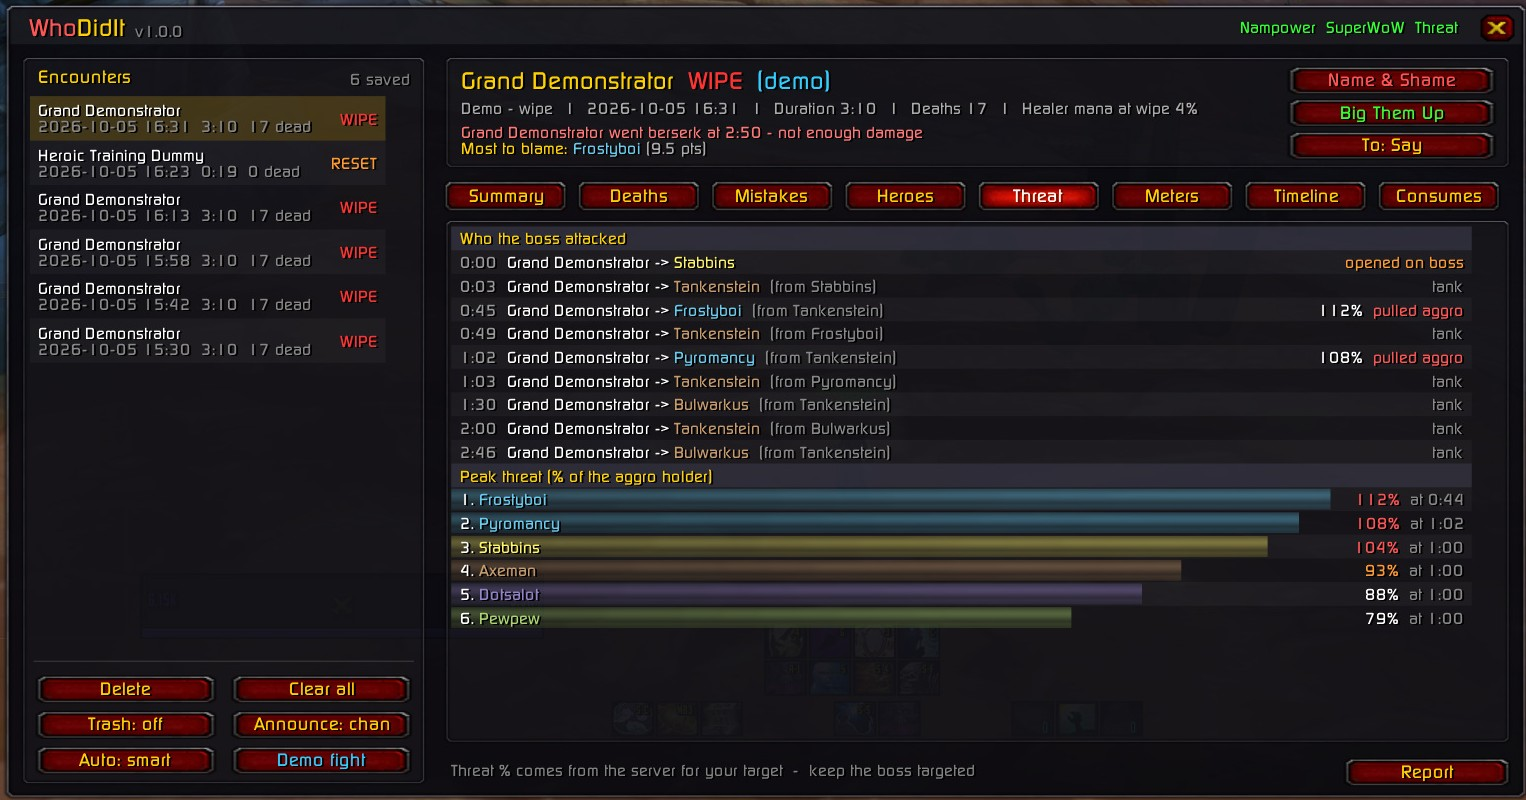
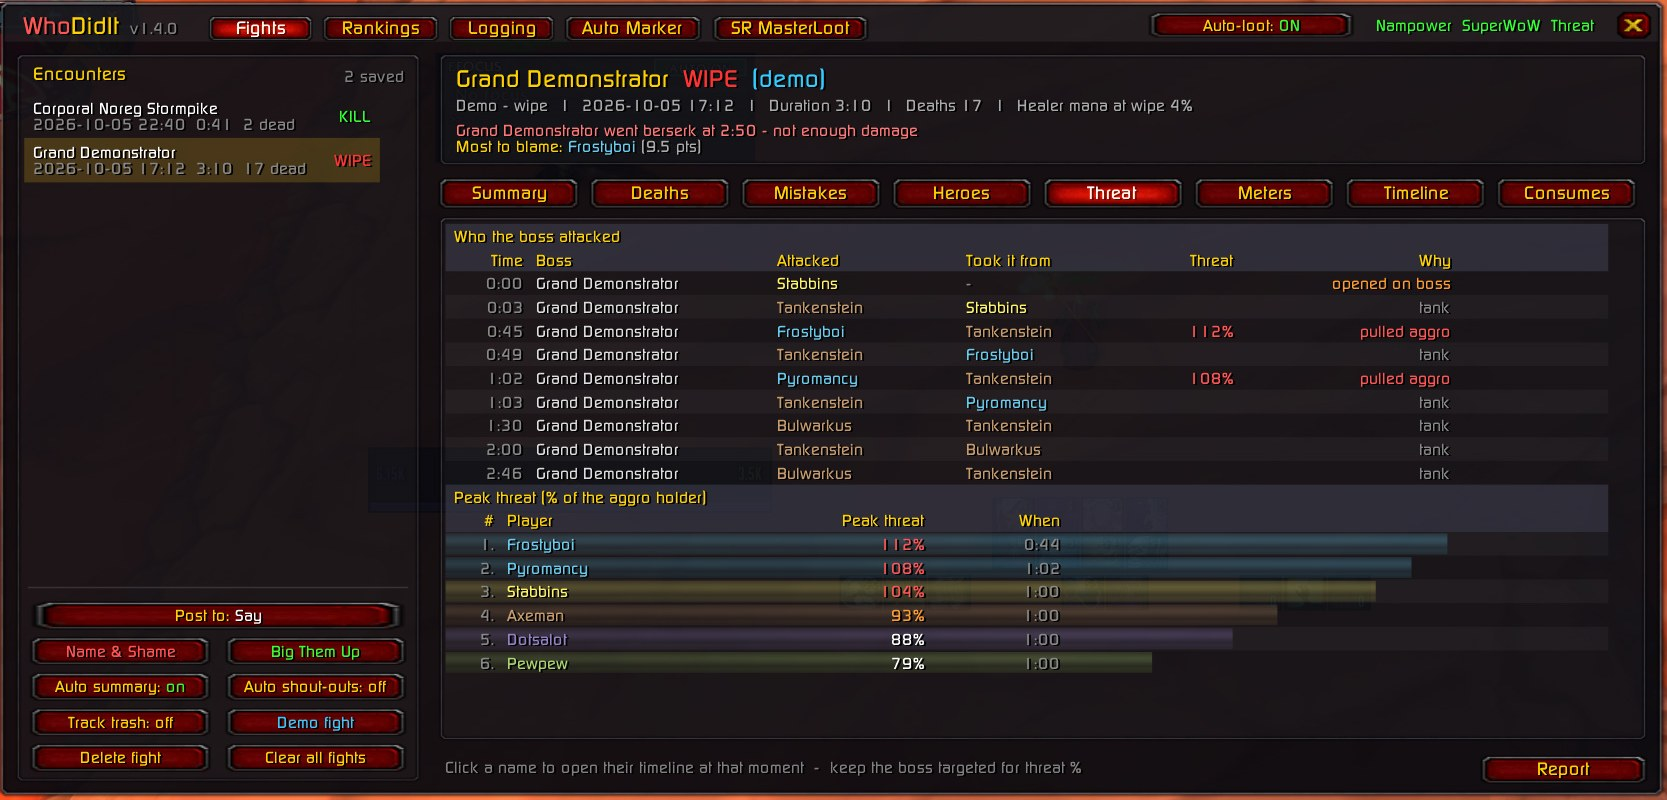
README: new screenshots of every tab and clearer descriptions
- 14 fresh screenshots (v1.4): Summary, Deaths, Mistakes, Heroes,
  Threat, Meters, Timeline, Consumes, Rankings kill times and full
  clears, Logging, Auto Marker, SR MasterLoot and the Auto-loot panel.
  Old ones showing the previous layout removed.
- Gallery grouped by part of the window, each with a plain description
  of what it shows and what clicking does; Highlights rewritten; a
  short guide to the title bar and the bottom-left panel; section names
  match the tab names (Logging, Auto Marker, SR MasterLoot, Auto-loot).
- Auto-loot panel and mark picker get a solid background (text behind
  showed through).

diff --git a/README.md b/README.md
@@ -23,41 +23,61 @@ Records every boss fight, then tells you **why** the raid wiped and **who** did 
 
 ## Highlights
 
-- 🔍 **Why did it go wrong?** A ranked list of wipe causes: tank deaths, healers out of mana, enrage timers, mechanics, aggro pulls, missed interrupts. Click any cause for the full breakdown: who healed the tank in their last 5 seconds, or each healer's mana and potions.
+- 🔍 **Why did it go wrong?** A ranked list of wipe causes: tank deaths, healers out of mana, enrage timers, mechanics, aggro pulls, missed interrupts. Click any cause for the full breakdown.
 - ☠ **Death recaps.** The last 15 seconds before every death (hits, heals, debuffs, items, health %), with the cause worked out for you.
-- 🎯 **Aggro & threat.** Every time the boss switched target, with the server's threat % at that moment. Non-tanks who rip aggro get blamed.
-- 📋 **Blame board.** Points for standing in fire, pulling aggro, bombing the raid, idling and low DPS, with a "Most to blame" verdict.
-- 🦸 **Heroes.** Game-saving plays: clutch heals, shields that ate a killing blow, taunt rescues, Blessing of Protection, battle res, Innervate, dispelled mind control.
-- 🧪 **Consumes.** Every player's flask, elixirs, food, juju and protection potions, plus every potion, rune, tea and healthstone they used. A **slacker check** says who's missing what their role needs, at every pull and every ready check.
-- 🎒 **Auto master looting.** Greys, whites and greens (and raid mats) handed out by themselves to you or anyone you pick, with a backup for when your bags are full.
-- 📣 **Shout-outs.** *Name & Shame* and *Big Them Up* awards, reports and per-player posts, sent to any channel in colour.
-- 📊 **Meters & timeline.** Damage, healing, taken, activity and utility, plus a full timeline of the fight.
-- 💀 **Auto marking.** Marks whole packs in one go, with ~365 raid packs built in, smart marks for tricky fights, and quick save for your own packs.
-- 💰 **Master looting.** RollFor is built in, with an **SR MasterLoot** tab: soft-res import and check, rolls, awards, loot given, and a step-by-step guide.
-- 🏆 **Rankings & Chronicle.** Kill and clear times against every guild on your realm, and the Chronicle combat logger built in.
+- 📋 **Blame board & heroes.** Points for every mistake (standing in fire, pulling aggro, bombing the raid, idling, low DPS) and every game-saving play (clutch heals, shields, taunts, BoP, battle res, dispels).
+- 🎯 **Threat & timeline.** Who the boss attacked and why, with the server's threat %. Click any name to jump to that player's own timeline at that moment.
+- 🧪 **Consumes & slackers.** Everyone's flask, elixirs, food and protection potions, every potion and healthstone used, and who's missing what their role needs, at every pull and ready check.
+- 📣 **Shout-outs.** *Name & Shame* (top 3 to blame) and *Big Them Up*, reports, single mistakes or hero moments, posted to any channel in colour.
+- 🏆 **Rankings.** Kill and full-clear times against every guild on your realm and the other realms (from Chronicle), banter after kills, and a rival watch when someone beats your times. Click any time to open that guild's whole raid.
+- 📝 **Logging.** The Chronicle combat logger built in: start, save, archive and upload your logs.
+- 💀 **Auto Marker.** Marks whole packs in one go, with ~365 raid packs built in, smart marks for tricky fights, and quick save for your own packs.
+- 💰 **SR MasterLoot.** RollFor built in for soft-res master looting, with a step-by-step guide. **Auto-loot** hands out the trash loot for you.
 
 ## Screenshots
 
+Every window below is the built-in **Demo fight** (made-up raiders) or your own Rankings / Logging data.
+
+### Fights: what happened in the fight
+
 <table>
   <tr>
-    <td width="50%"><img src="docs/live.jpg" alt="Live fight"><br><b>Live view.</b> The report builds itself while you fight.</td>
-    <td width="50%"><img src="docs/breakdown.jpg" alt="Cause breakdown"><br><b>Cause breakdown.</b> Click any cause. Here: which healers died and when, and each survivor's healing and mana consumables.</td>
+    <td width="50%"><img src="docs/summary.jpg" alt="Summary"><br><b>Summary.</b> The verdict, every reason the fight went wrong (click one for the details) and the blame board. The panel bottom left posts to chat: <b>Post to</b> picks the channel, then Name &amp; Shame, Big Them Up, and the automatic posts after each fight.</td>
+    <td width="50%"><img src="docs/deaths.jpg" alt="Deaths"><br><b>Deaths.</b> Every death in order, with the cause, the killing blow and how big it was. Hover a death for its last seconds; click it for the full second-by-second recap with a health bar.</td>
   </tr>
   <tr>
-    <td width="50%"><img src="docs/deaths.jpg" alt="Deaths"><br><b>Deaths.</b> Every death with its cause and killing blow. Deaths after the wipe point are greyed out.</td>
-    <td width="50%"><img src="docs/death.jpg" alt="Death recap"><br><b>Death recap.</b> Click a death for its last seconds: every hit, heal and crushing blow, with a health bar.</td>
+    <td width="50%"><img src="docs/mistakes.jpg" alt="Mistakes"><br><b>Mistakes.</b> The blame board with bars, then every mistake with its time, type and blame points. Click a mistake to post it (Ctrl-click previews it). <b>Post mistakes</b> and <b>Name &amp; Shame</b> post the lot.</td>
+    <td width="50%"><img src="docs/heroes.jpg" alt="Heroes"><br><b>Heroes.</b> The same layout for the good stuff: the hero board, then every game-saving moment (heal, shield, taunt, dispel, innervate, tranq...). Click a moment to post it; <b>Post heroes</b> and <b>Big Them Up</b> post the lot.</td>
   </tr>
   <tr>
-    <td width="50%"><img src="docs/mistakes.jpg" alt="Mistakes"><br><b>Mistakes.</b> Every mistake with its time and blame points, worst first.</td>
-    <td width="50%"><img src="docs/threat.jpg" alt="Threat"><br><b>Threat.</b> Who the boss attacked and why (tank swap, pulled aggro, opened early), plus peak threat per player.</td>
+    <td width="50%"><img src="docs/threat.jpg" alt="Threat"><br><b>Threat.</b> Every time the boss changed target, who it went for, who lost it, their threat % and why (tank, pulled aggro, opened on the boss), plus everyone's peak threat. Click a name to see their timeline at that moment.</td>
+    <td width="50%"><img src="docs/meters.jpg" alt="Meters"><br><b>Meters.</b> Damage, healing, damage taken, activity (how much of their time alive each player did something) and utility (kicks, dispels, tranqs, items), with role, per second, share and deaths.</td>
   </tr>
   <tr>
-    <td width="50%"><img src="docs/meters.jpg" alt="Meters"><br><b>Meters.</b> Damage, healing, taken, activity and utility, with roles marked.</td>
-    <td width="50%"><img src="docs/timeline.jpg" alt="Timeline"><br><b>Timeline.</b> Everything that happened in the fight, in order.</td>
+    <td width="50%"><img src="docs/timeline.jpg" alt="Timeline"><br><b>Timeline.</b> Everything that happened, second by second, colour-coded by kind. Click a name in any line for that player's own timeline, focused on that moment.</td>
+    <td width="50%"><img src="docs/consumes.jpg" alt="Consumes"><br><b>Consumes.</b> Raid overview (flasks, food, protection potions, items used), then each player's buffs and items, and what they were <b>missing for their role</b>. <b>Check raid now</b> scans the raid before the pull.</td>
+  </tr>
+</table>
+
+### Rankings: kill times and clears
+
+<table>
+  <tr>
+    <td width="50%"><img src="docs/rankings.jpg" alt="Kill times"><br><b>Kill times.</b> Every boss: your best, your guild's best, its rank, the gap to #1 and who holds it. A red <b>!</b> marks a boss someone recently beat you on; the <b>Rival watch</b> lists them (click to post a taunt). Bottom left: banter, rival alerts and posting the standings.</td>
+    <td width="50%"><img src="docs/clears.jpg" alt="Full clears"><br><b>Full clears.</b> The instance leaderboard with faction, date, raid size, time and how each guild compares with yours. Click any guild's time to open that raid: every boss kill in order, wipes, and a link to the log on Chronicle. <b>Realm</b> switches to the other realms or all of them together.</td>
+  </tr>
+</table>
+
+### Logging, Auto Marker, SR MasterLoot and Auto-loot
+
+<table>
+  <tr>
+    <td width="50%"><img src="docs/logging.jpg" alt="Logging"><br><b>Logging.</b> The Chronicle combat logger, built in: start and stop logging, save, archive between lockouts, the automatic options (start in raids, save after every boss), and how to upload the log to chronicleclassic.com.</td>
+    <td width="50%"><img src="docs/marker.jpg" alt="Auto Marker"><br><b>Auto Marker.</b> Every saved pack in the zone with its marks, mob count and how many are in range. Hold Shift + Ctrl over a mob to mark its whole pack, or mark the next pack along the route. Mark mobs yourself and click <b>Save marks as pack</b> to keep them.</td>
   </tr>
   <tr>
-    <td width="50%"><img src="docs/consumes.jpg" alt="Consumes"><br><b>Consumes.</b> Flask / food overview, then each player's buffs and items used, colour-coded by type.</td>
-    <td width="50%"><img src="docs/chat.jpg" alt="Coloured chat posts"><br><b>Coloured chat posts.</b> A Report and a Consumes post: names in class colour, times in blue, numbers in white. Long lines split instead of losing their colours.</td>
+    <td width="50%"><img src="docs/masterloot.jpg" alt="SR MasterLoot"><br><b>SR MasterLoot.</b> RollFor for soft-res master looting, with a step-by-step guide (gold lines do that step), the imported soft-res sheet, loot given and every setting explained. <b>raidres.fly.dev</b> with a <b>Copy link</b> button at the top.</td>
+    <td width="50%"><img src="docs/autoloot.jpg" alt="Auto-loot"><br><b>Auto-loot.</b> The title-bar button shows whether it's on. Click it to pick who gets the trash loot (greys, whites, greens and raid mats) and who gets it when your bags are full. Epics are never handed out.</td>
   </tr>
 </table>
 
@@ -66,7 +86,7 @@ Records every boss fight, then tells you **why** the raid wiped and **who** did 
 1. Download the [latest code](https://github.com/bdot89/WhoDidIt/archive/refs/heads/main.zip) (or `git clone`).
 2. Extract it into `Interface/AddOns/` and **rename the folder to `WhoDidIt`**. GitHub names it `WhoDidIt-main`, and the game won't load it under that name.
 3. Make sure **Nampower** and **SuperWoW** are installed (see below), then log in and type `/wdi`.
-4. *Optional:* double-click `tools\WhoDidIt-Sync.cmd` once. It installs the built-in [Chronicle logger](#chronicle-logs), [RollFor](#master-looting-rollfor) and the [auto marker's packs](#auto-marking), and pulls every guild's times for [Rankings](#rankings). Then restart WoW.
+4. *Optional:* double-click `tools\WhoDidIt-Sync.cmd` once. It installs the built-in [Chronicle logger](#logging-chronicle-logs), [RollFor](#sr-masterloot-rollfor) and the [auto marker's packs](#auto-marker), and pulls every guild's times for [Rankings](#rankings). Then restart WoW.
 
 ### Requirements
 
@@ -86,6 +106,12 @@ WhoDidIt switches on the Nampower CVars it needs (`NP_EnableAutoAttackEvents`, `
 4. Raid. Fights are recorded automatically when your group engages a boss. **Keep the boss targeted** so threat % gets recorded.
 
 ## The window
+
+Across the top: **Fights** · **Rankings** · **Logging** · **Auto Marker** · **SR MasterLoot**, then the **Auto-loot**
+button (on / off, click to choose who gets the loot) and green / red lights for Nampower, SuperWoW and threat data.
+Bottom left, on every tab: **Post to** (where WhoDidIt posts) and that tab's buttons. Hover anything to see what it does.
+
+**Fights** has one tab per view of the selected fight:
 
 | Tab | What it shows |
 | --- | --- |
@@ -192,7 +218,7 @@ tools\WhoDidIt-Sync.cmd -DetailsPerSync 600  read more raids in full per sync (d
 
 The API is marked experimental by Chronicle, so it may change.
 
-## Chronicle logs
+## Logging (Chronicle logs)
 
 WhoDidIt has Chronicle's logger built in: **ChronicleCompanion**, the official addon for
 [chronicleclassic.com](https://chronicleclassic.com), made by Emyrk. You don't need to install it separately.
@@ -220,7 +246,7 @@ The **Logging** button (or `/wdi logs`) drives it from the WhoDidIt window. It s
 - Live status: logging on/off, the log file, unsaved lines, and what was saved this session
 - Step-by-step upload instructions. The upload itself is done on the website.
 
-## Auto marking
+## Auto Marker
 
 The **Auto Marker** button (or `/wdi marks`) is WhoDidIt's auto marker. It puts raid marks on a whole pack of mobs at once.
 Every mob has a fixed GUID, so a pack is a list of mobs and the mark each one gets.
@@ -298,7 +324,7 @@ The spell IDs, the aura names this server really uses and the per-role idea come
 (MIT licence, [octowow.st/git/ShempError/DopingControl](https://octowow.st/git/ShempError/DopingControl)). For a full
 pre-raid matrix (gear enchants, hit, resistances), use DopingControl itself.
 
-## Auto master looting
+## Auto-loot (auto master looting)
 
 The **Auto-loot** button in the title bar (next to Nampower) shows whether it's on.
 - When it's on and you're the master looter, every grey, white and green item is handed out as soon as you open a
@@ -313,7 +339,7 @@ The **Auto-loot** button in the title bar (next to Nampower) shows whether it's 
 
 It replaces the AutoMasterLooter addon (by balake).
 
-## Master looting (RollFor)
+## SR MasterLoot (RollFor)
 
 The **SR MasterLoot** button (or `/wdi loot`) is for master looting. WhoDidIt has [RollFor](https://github.com/sica42/roll-for-vanilla)
 built in, the master-loot roller by Obszczymucha. It's sica42's 1.12 fork (v4.8.1), the newest version that still runs on
